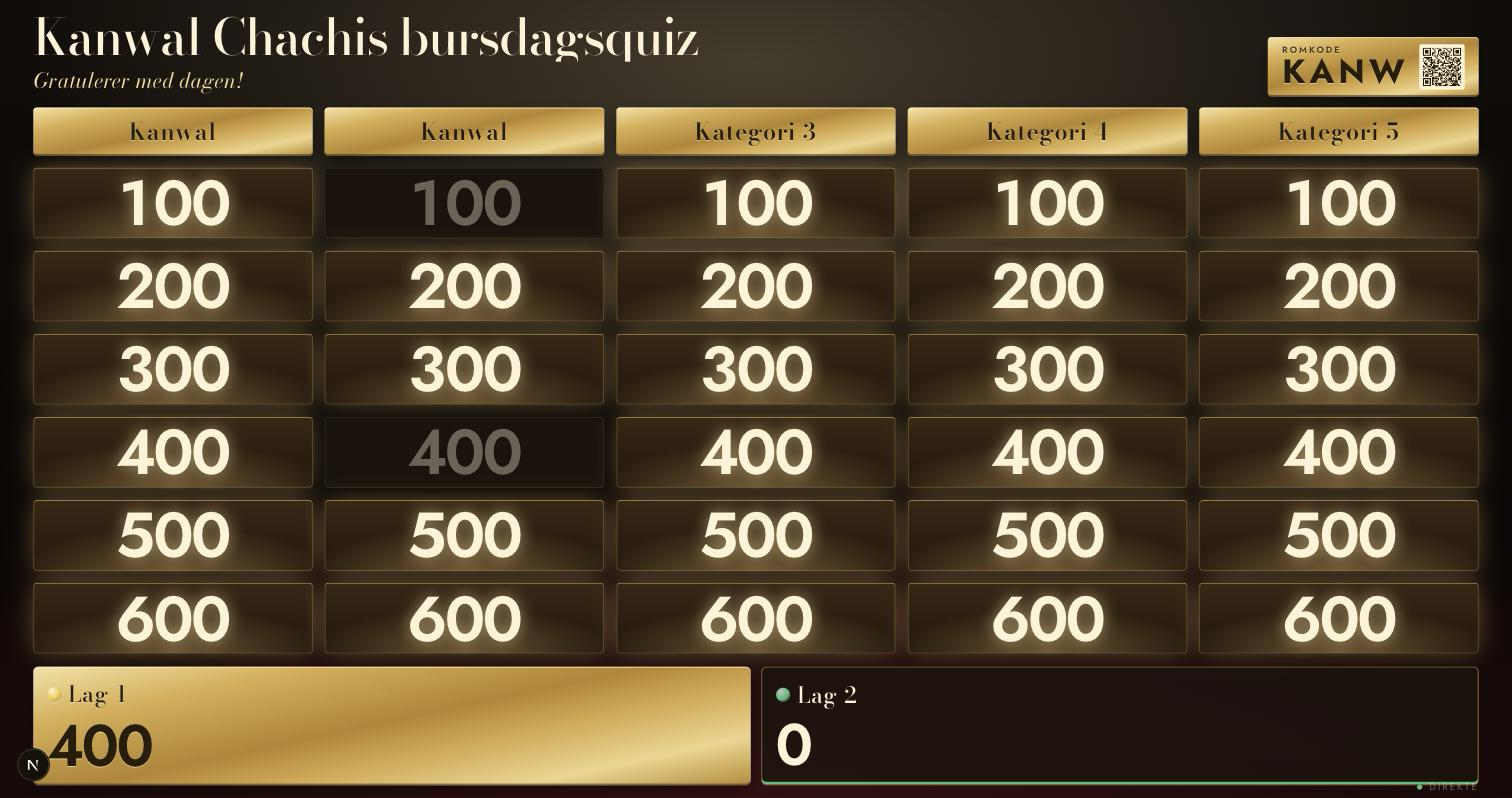
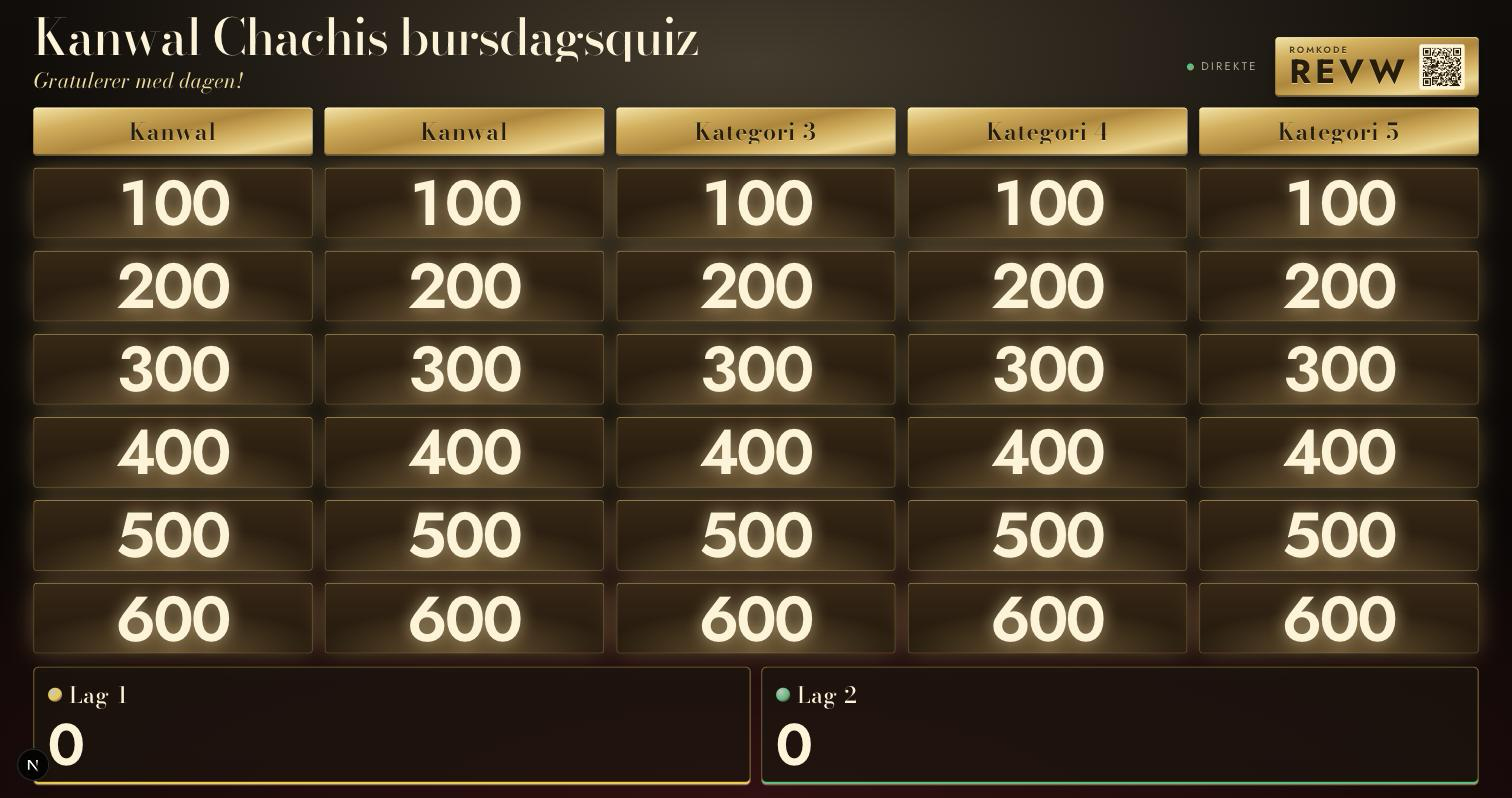
feat: cancel a wrongly opened clue, allow eight teams

diff --git a/src/components/game-board.tsx b/src/components/game-board.tsx
@@ -43,7 +43,7 @@ export function GameBoard({ initial }: { initial: GameWithBoard }) {
       if (event.target instanceof HTMLInputElement || event.target instanceof HTMLTextAreaElement) return;
       if (event.key === "Escape") {
         if (showQr) setShowQr(false);
-        else if (state.active) void dispatch({ type: "closeClue" });
+        else if (state.active) void dispatch({ type: "cancelClue" });
       } else if (event.key === " " || event.key === "Enter") {
         if (state.active) {
           event.preventDefault();
@@ -167,6 +167,7 @@ export function GameBoard({ initial }: { initial: GameWithBoard }) {
           onAdvance={advance}
           onAward={(team, delta) => dispatch({ type: "award", teamId: team.id, delta, clueId: active.clue.id })}
           onBackToQuestion={() => dispatch({ type: "showQuestion" })}
+          onCancel={() => dispatch({ type: "cancelClue" })}
           onClose={() => dispatch({ type: "closeClue" })}
         />
       ) : null}
@@ -205,6 +206,7 @@ function ClueOverlay({
   onAdvance,
   onAward,
   onBackToQuestion,
+  onCancel,
   onClose,
 }: {
   categoryTitle: string;
@@ -217,6 +219,7 @@ function ClueOverlay({
   onAdvance: () => void;
   onAward: (team: Team, delta: number) => void;
   onBackToQuestion: () => void;
+  onCancel: () => void;
   onClose: () => void;
 }) {
   return (
@@ -297,7 +300,11 @@ function ClueOverlay({
             <button type="button" onClick={onBackToQuestion} className="tap rounded-md px-4 text-cream-dim hover:text-cream">
               Tilbake til spørsmålet
             </button>
-          ) : null}
+          ) : (
+            <button type="button" onClick={onCancel} className="tap rounded-md px-4 text-cream-dim hover:text-cream">
+              Feil rute? Tilbake til brettet
+            </button>
+          )}
           <button
             type="button"
             onClick={phase === "question" ? onAdvance : onClose}

diff --git a/src/components/scoreboard.tsx b/src/components/scoreboard.tsx
@@ -51,7 +51,10 @@ export function Scoreboard({ teams, compact = false }: { teams: Team[]; compact?
   }, [flashId]);
 
   return (
-    <ol className={`grid gap-3 ${compact ? "grid-cols-2" : ""}`} style={compact ? undefined : { gridTemplateColumns: `repeat(${ranked.length}, minmax(0, 1fr))` }}>
+    <ol
+      className={`grid ${compact ? "grid-cols-2 gap-3" : ranked.length > 5 ? "gap-2" : "gap-3"}`}
+      style={compact ? undefined : { gridTemplateColumns: `repeat(${ranked.length}, minmax(0, 1fr))` }}
+    >
       {ranked.map((team, index) => {
         const leader = index === 0 && team.score === top && ranked.filter((t) => t.score === top).length === 1;
         return (
@@ -65,12 +68,12 @@ export function Scoreboard({ teams, compact = false }: { teams: Team[]; compact?
             <div className="flex min-w-0 items-center gap-2">
               <BibDot color={team.color} size={compact ? 12 : 16} />
               <span
-                className={`truncate font-display ${compact ? "text-lg" : "text-[clamp(1rem,1.6vw,1.6rem)]"} font-medium tracking-wide`}
+                className={`truncate font-display ${compact ? "text-lg" : ranked.length > 5 ? "text-[clamp(0.9rem,1.25vw,1.3rem)]" : "text-[clamp(1rem,1.6vw,1.6rem)]"} font-medium tracking-wide`}
               >
                 {team.name}
               </span>
             </div>
-            <span className={`numeral ${compact ? "text-3xl" : "text-[clamp(2rem,4vw,4.2rem)]"} leading-none`}>
+            <span className={`numeral ${compact ? "text-3xl" : ranked.length > 5 ? "text-[clamp(1.6rem,3vw,3.2rem)]" : "text-[clamp(2rem,4vw,4.2rem)]"} leading-none`}>
               <RollingScore value={team.score} />
             </span>
           </li>

diff --git a/src/components/remote.tsx b/src/components/remote.tsx
@@ -76,6 +76,7 @@ export function Remote({ initial }: { initial: GameWithBoard }) {
               answerText={active.clue.answer.text}
               onShowAnswer={() => dispatch({ type: "showAnswer" })}
               onShowQuestion={() => dispatch({ type: "showQuestion" })}
+              onCancel={() => dispatch({ type: "cancelClue" })}
               onClose={() => dispatch({ type: "closeClue" })}
               onAward={(team, delta) => dispatch({ type: "award", teamId: team.id, delta, clueId: active.clue.id })}
               pending={pending}
@@ -270,6 +271,7 @@ function ActiveClue({
   answerText,
   onShowAnswer,
   onShowQuestion,
+  onCancel,
   onClose,
   onAward,
   pending,
@@ -282,6 +284,7 @@ function ActiveClue({
   answerText?: string;
   onShowAnswer: () => void;
   onShowQuestion: () => void;
+  onCancel: () => void;
   onClose: () => void;
   onAward: (team: Team, delta: number) => void;
   pending: boolean;
@@ -304,9 +307,14 @@ function ActiveClue({
       </div>
 
       {phase === "question" ? (
-        <Button variant="outline" className="min-h-12 text-base" onClick={onShowAnswer} disabled={pending}>
-          Vis svar på skjermen
-        </Button>
+        <div className="grid grid-cols-[1fr_2fr] gap-2">
+          <Button variant="ghost" className="min-h-12 text-base" onClick={onCancel} disabled={pending}>
+            Feil rute? Tilbake
+          </Button>
+          <Button variant="outline" className="min-h-12 text-base" onClick={onShowAnswer} disabled={pending}>
+            Vis svar på skjermen
+          </Button>
+        </div>
       ) : (
         <>
           <ul className="flex flex-col gap-2">

diff --git a/src/lib/game.ts b/src/lib/game.ts
@@ -1,6 +1,6 @@
 import { BIB_COLORS, type BibColor, type Board, type Clue, type GameAction, type GameState, type Team } from "./types";
 
-export const MAX_TEAMS = 6;
+export const MAX_TEAMS = 8;
 
 export const shortId = () => Math.random().toString(36).slice(2, 9);
 
@@ -54,6 +54,8 @@ export const reduceGame = (state: GameState, action: GameAction): GameState => {
       const used = state.used.includes(state.active.clueId) ? state.used : [...state.used, state.active.clueId];
       return { ...state, used, active: null };
     }
+    case "cancelClue":
+      return state.active ? { ...state, active: null } : state;
     case "toggleUsed":
       return {
         ...state,

diff --git a/src/lib/types.ts b/src/lib/types.ts
@@ -29,7 +29,7 @@ export type Board = {
   updatedAt: string;
 };
 
-export const BIB_COLORS = ["yellow", "green", "red", "blue", "white", "purple"] as const;
+export const BIB_COLORS = ["yellow", "green", "red", "blue", "white", "purple", "orange", "pink"] as const;
 export type BibColor = (typeof BIB_COLORS)[number];
 
 export type Team = {
@@ -61,6 +61,7 @@ export type GameAction =
   | { type: "showAnswer" }
   | { type: "showQuestion" }
   | { type: "closeClue" }
+  | { type: "cancelClue" }
   | { type: "toggleUsed"; clueId: string }
   | { type: "award"; teamId: string; delta: number; clueId?: string | null }
   | { type: "undo" }

diff --git a/src/components/team-bib.tsx b/src/components/team-bib.tsx
@@ -7,6 +7,8 @@ export const bibVar: Record<BibColor, string> = {
   blue: "var(--bib-blue)",
   white: "var(--bib-white)",
   purple: "var(--bib-purple)",
+  orange: "var(--bib-orange)",
+  pink: "var(--bib-pink)",
 };
 
 export const bibLabel: Record<BibColor, string> = {
@@ -16,6 +18,8 @@ export const bibLabel: Record<BibColor, string> = {
   blue: "Blå",
   white: "Hvit",
   purple: "Lilla",
+  orange: "Oransje",
+  pink: "Rosa",
 };
 
 export function BibDot({ color, size = 14, className = "" }: { color: BibColor; size?: number; className?: string }) {

diff --git a/src/app/globals.css b/src/app/globals.css
@@ -22,6 +22,8 @@
   --bib-blue: #5a8fe6;
   --bib-white: #f4f0e6;
   --bib-purple: #a877e0;
+  --bib-orange: #f0883e;
+  --bib-pink: #e879a8;
   color-scheme: dark;
 }
 
